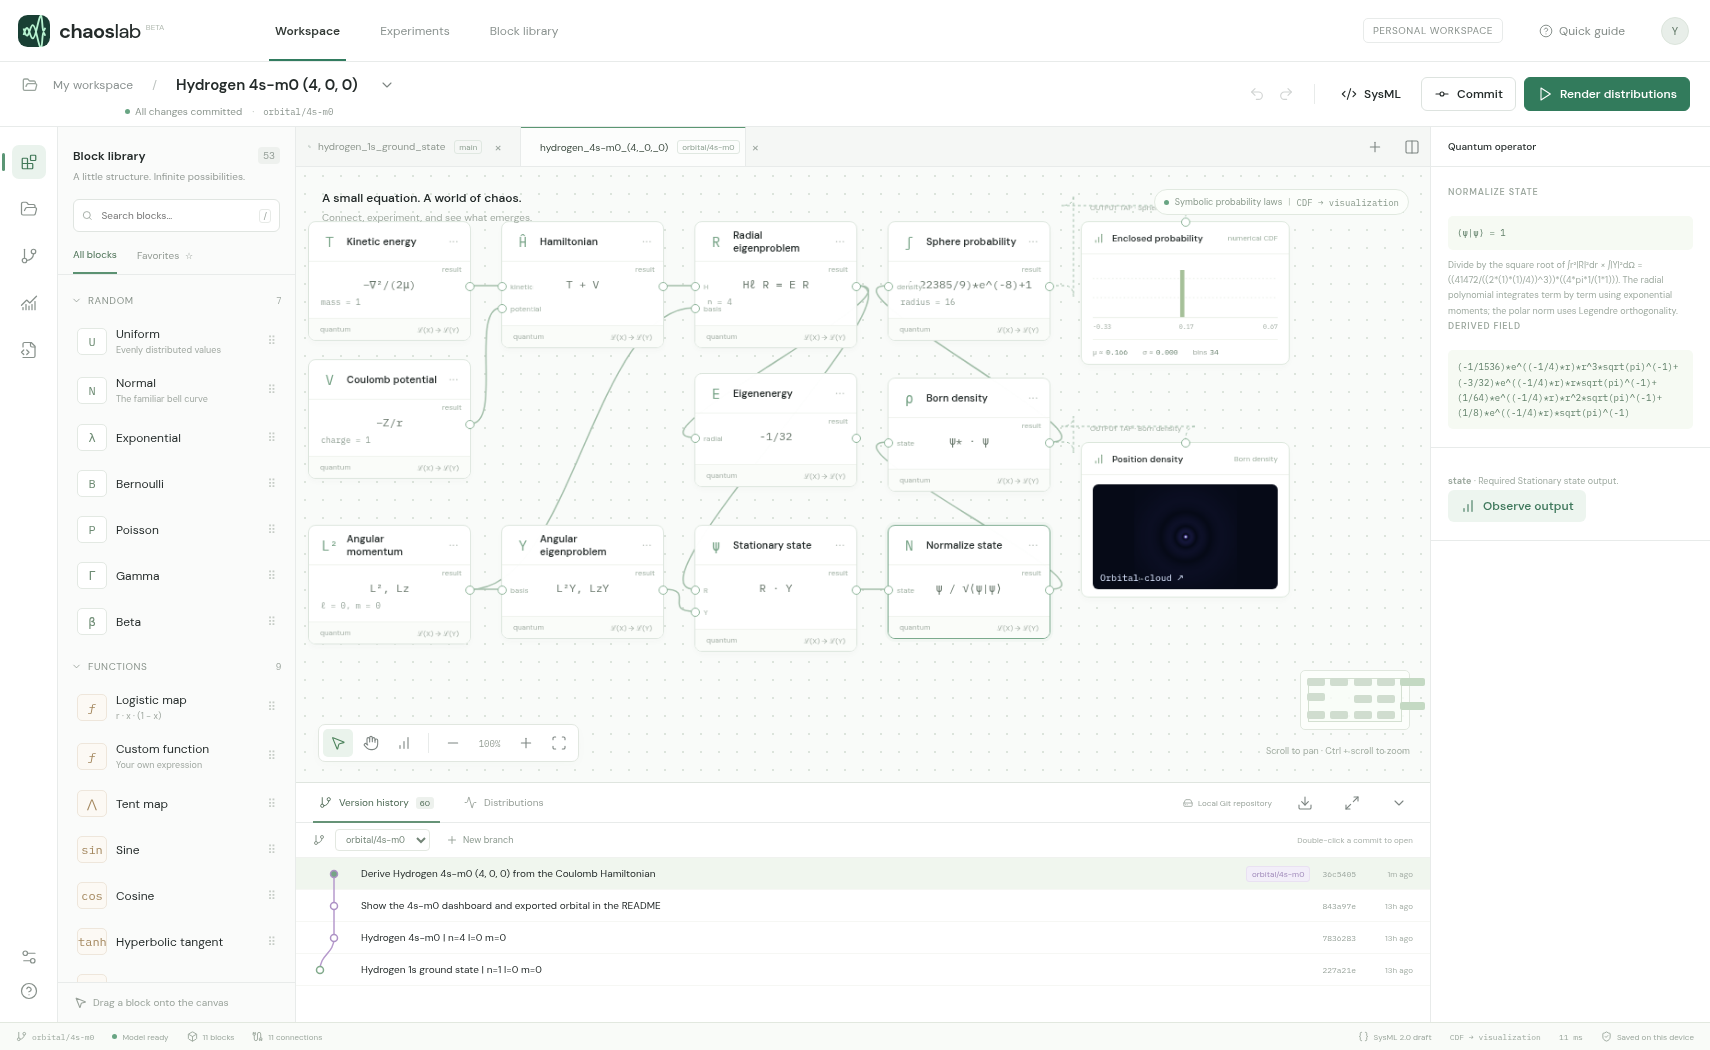
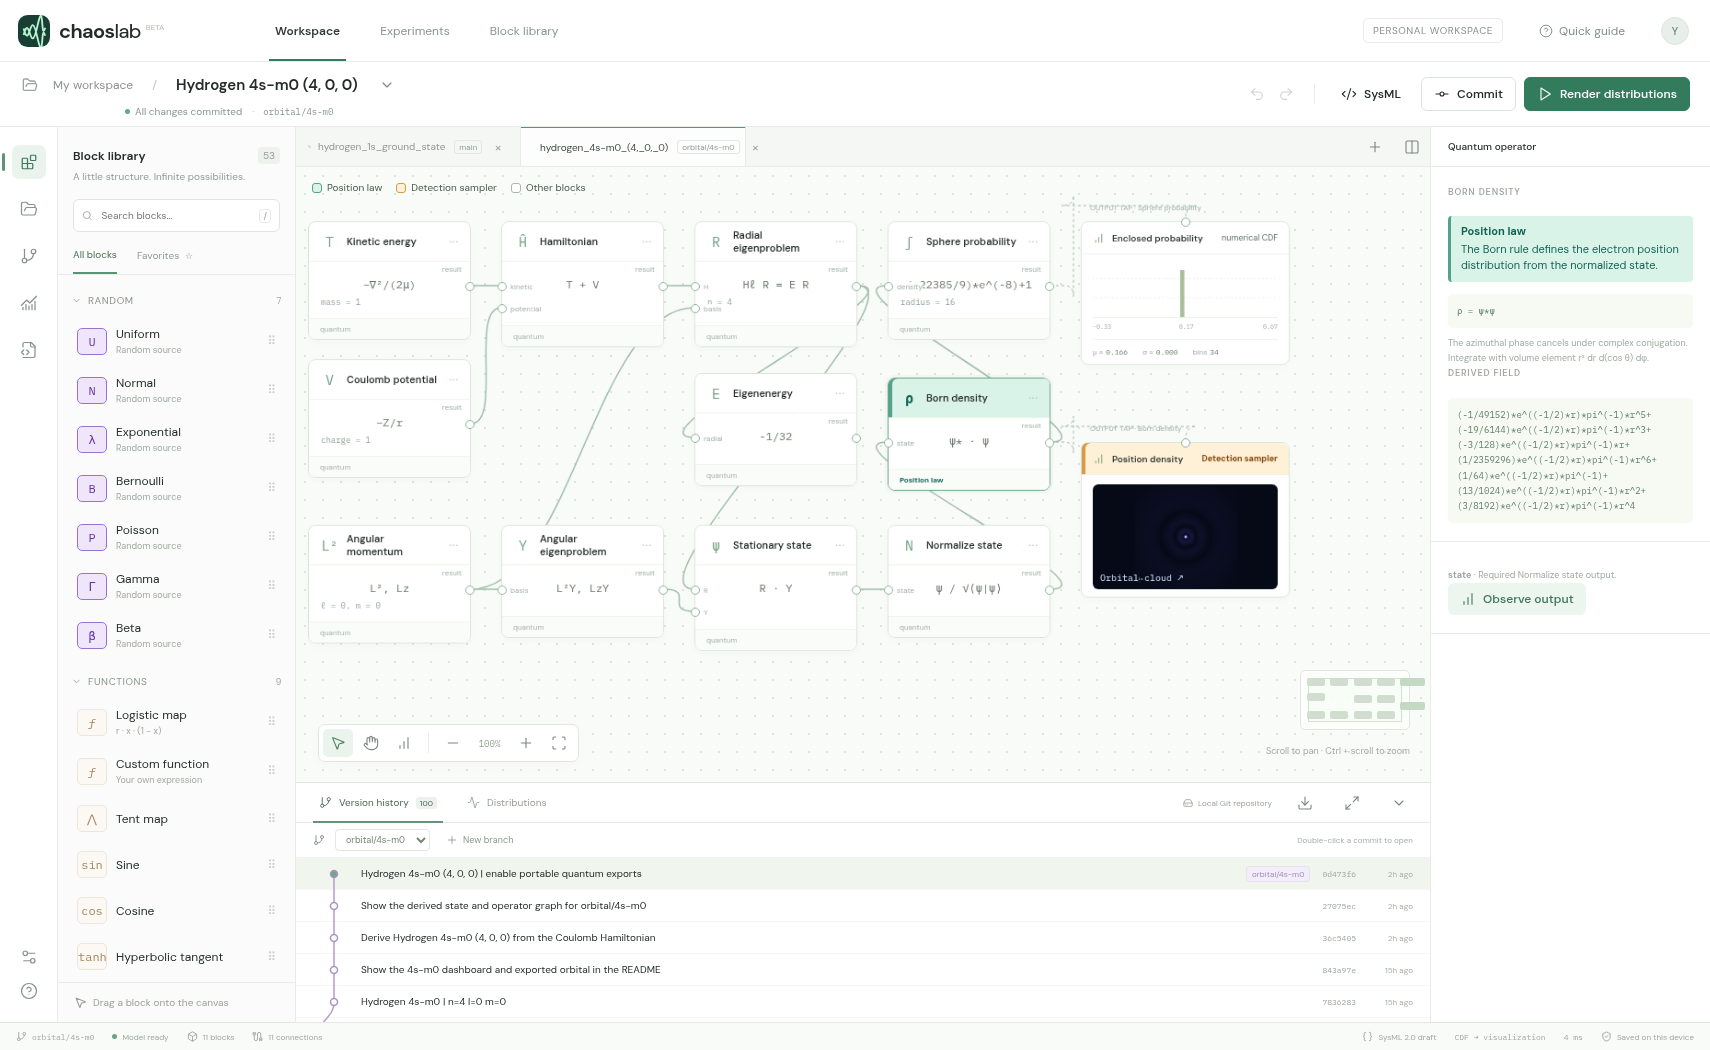
Hydrogen 4s-m0 (4, 0, 0) | identify the position law and detection sampler

diff --git a/studio.py b/studio.py
@@ -10,7 +10,7 @@ import tempfile
 import webbrowser
 
 ROOT = Path(__file__).resolve().parent
-STUDIO_REV = "1cc30c5632f1fe1f79a11ab6730f82c36a6c01e4"
+STUDIO_REV = "8657d6ecd3aa33a5a28f43219d5d6bfb8aa3edcc"
 STUDIO_REPO = "https://github.com/wa200508/chaos_lab.git"
 
 

diff --git a/README.md b/README.md
@@ -6,6 +6,8 @@ Open **Version history** in Chaos Lab to explore the 20 hydrogen designs in this
 
 The connected Hamiltonian and eigenstate solvers give $E=-1/32$ Hartree for this state.
 
+On the canvas, teal **Position law** marks where the Born rule defines the distribution of electron positions. Amber **Detection sampler** marks the tap that draws positions for the projected cloud. The central slice evaluates the density directly.
+
 ![Chaos Lab dashboard with the 4s model, m = 0, open in version history](dashboard.png)
 
 Radial nodes: 3. Polar nodes: 0. Plot half-width: 32 Bohr radii.
